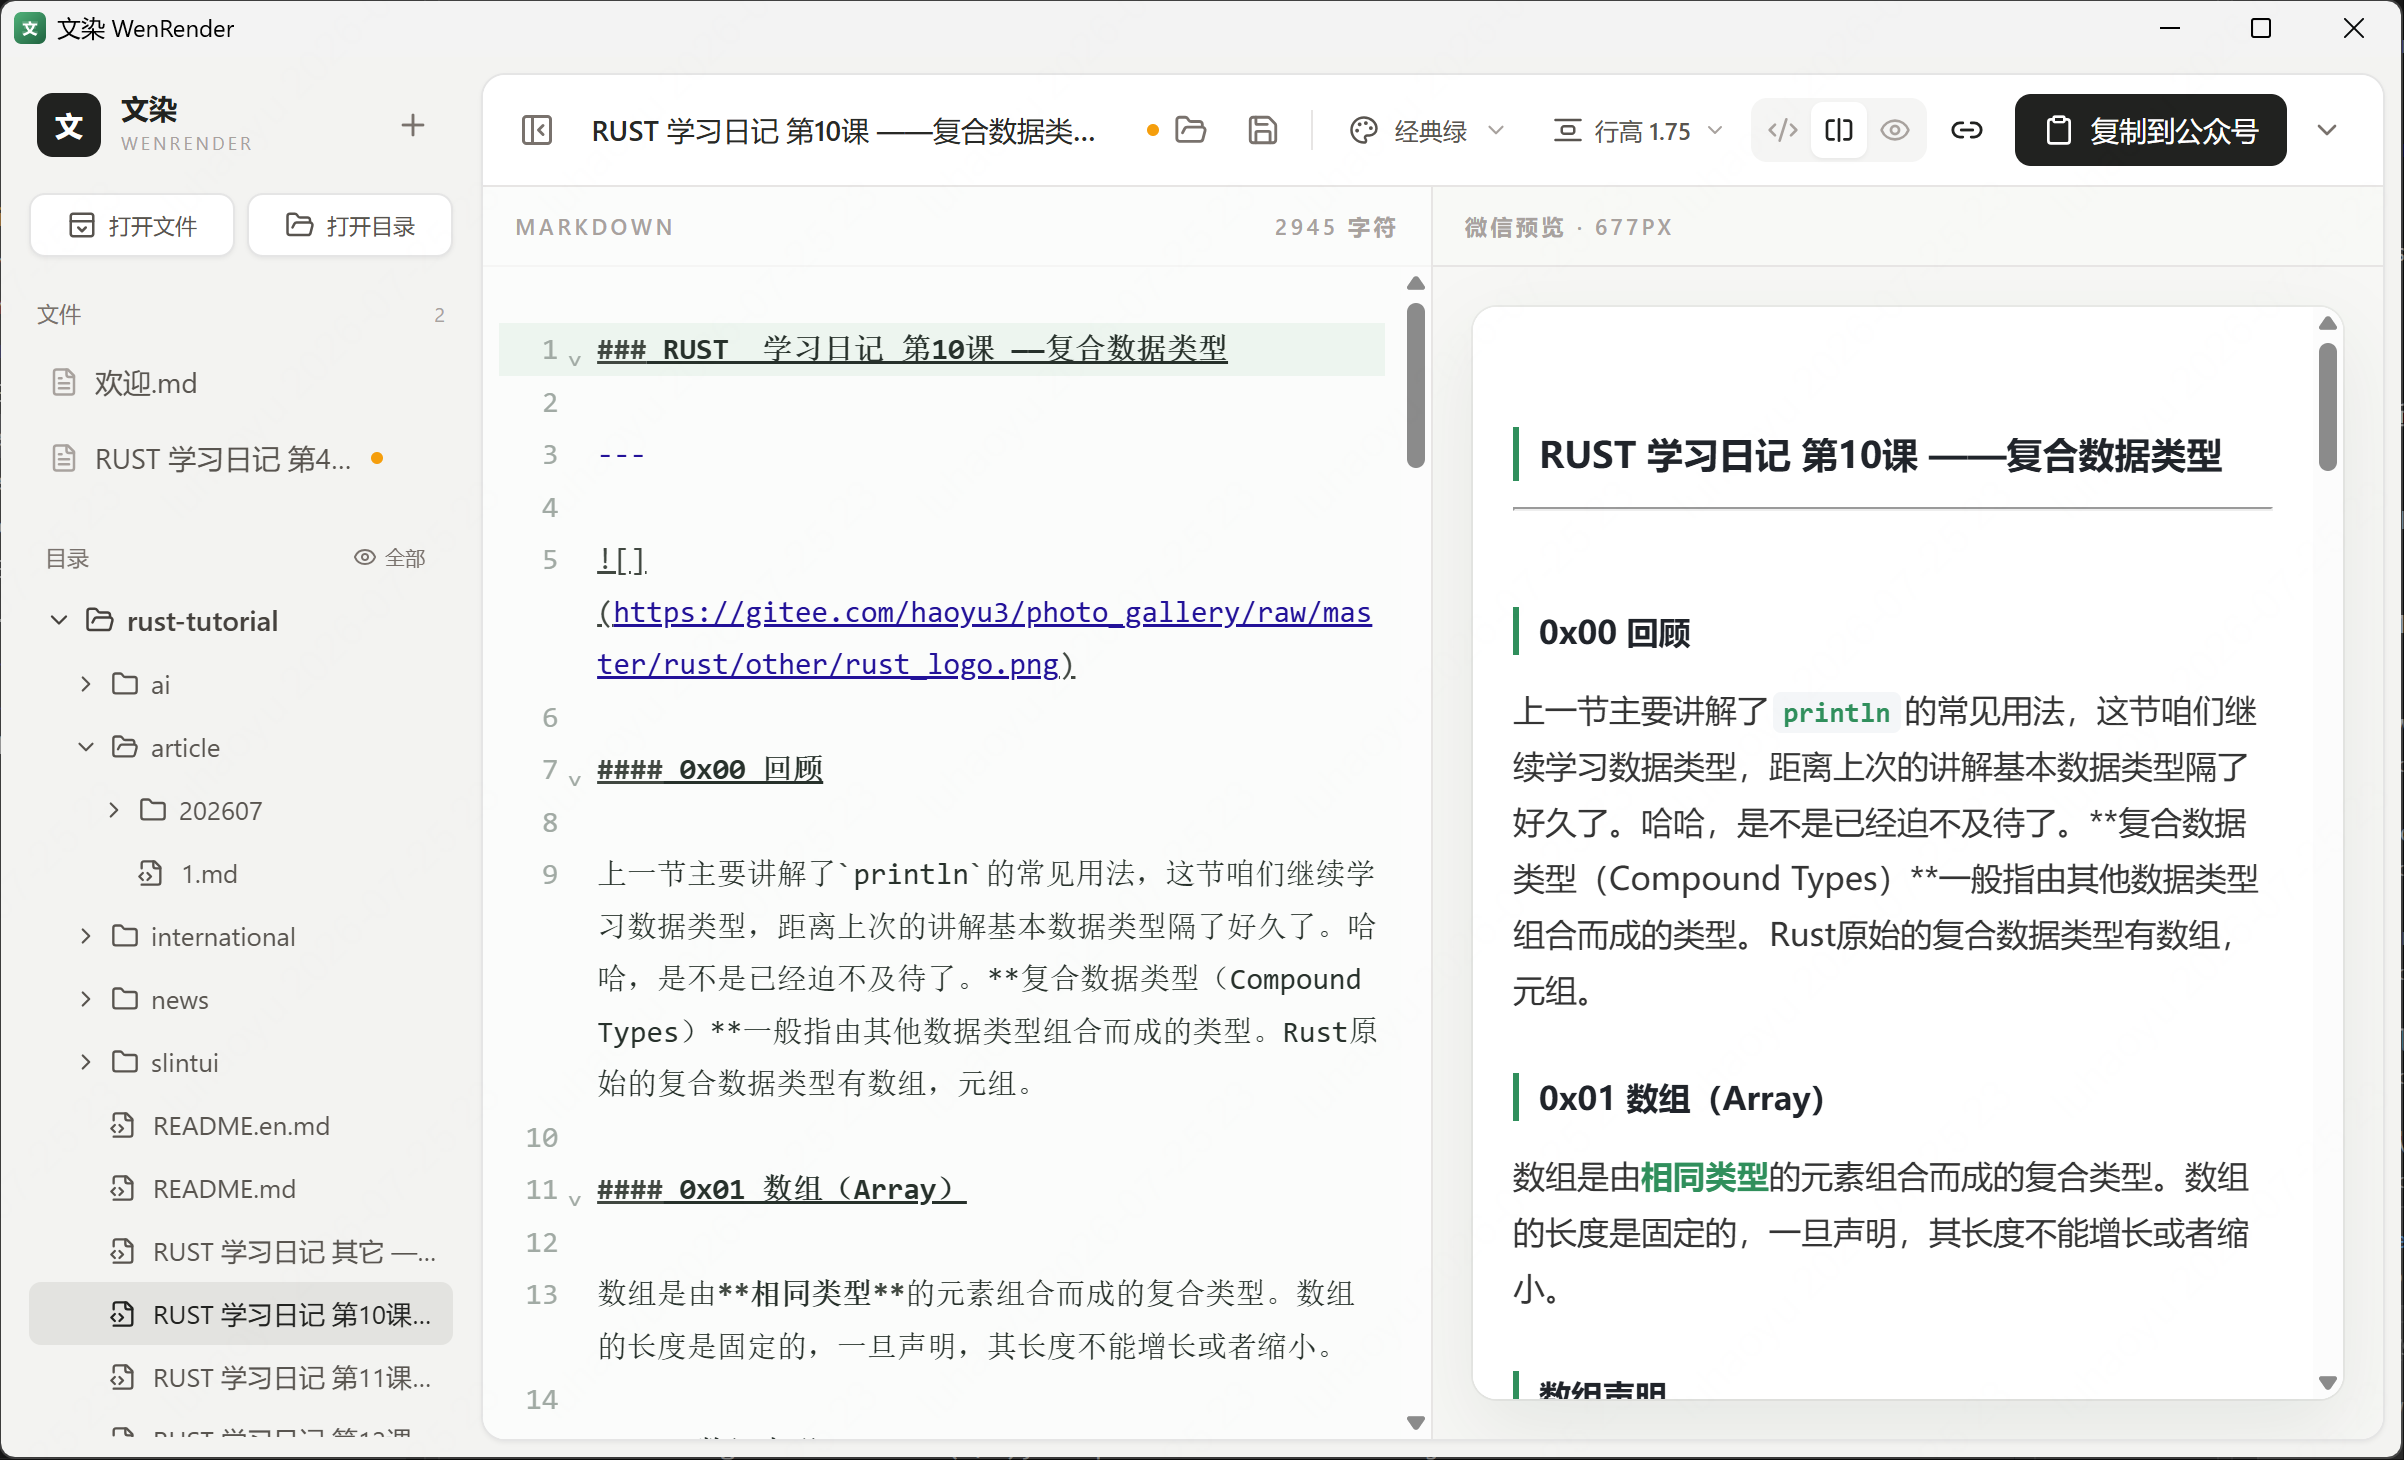
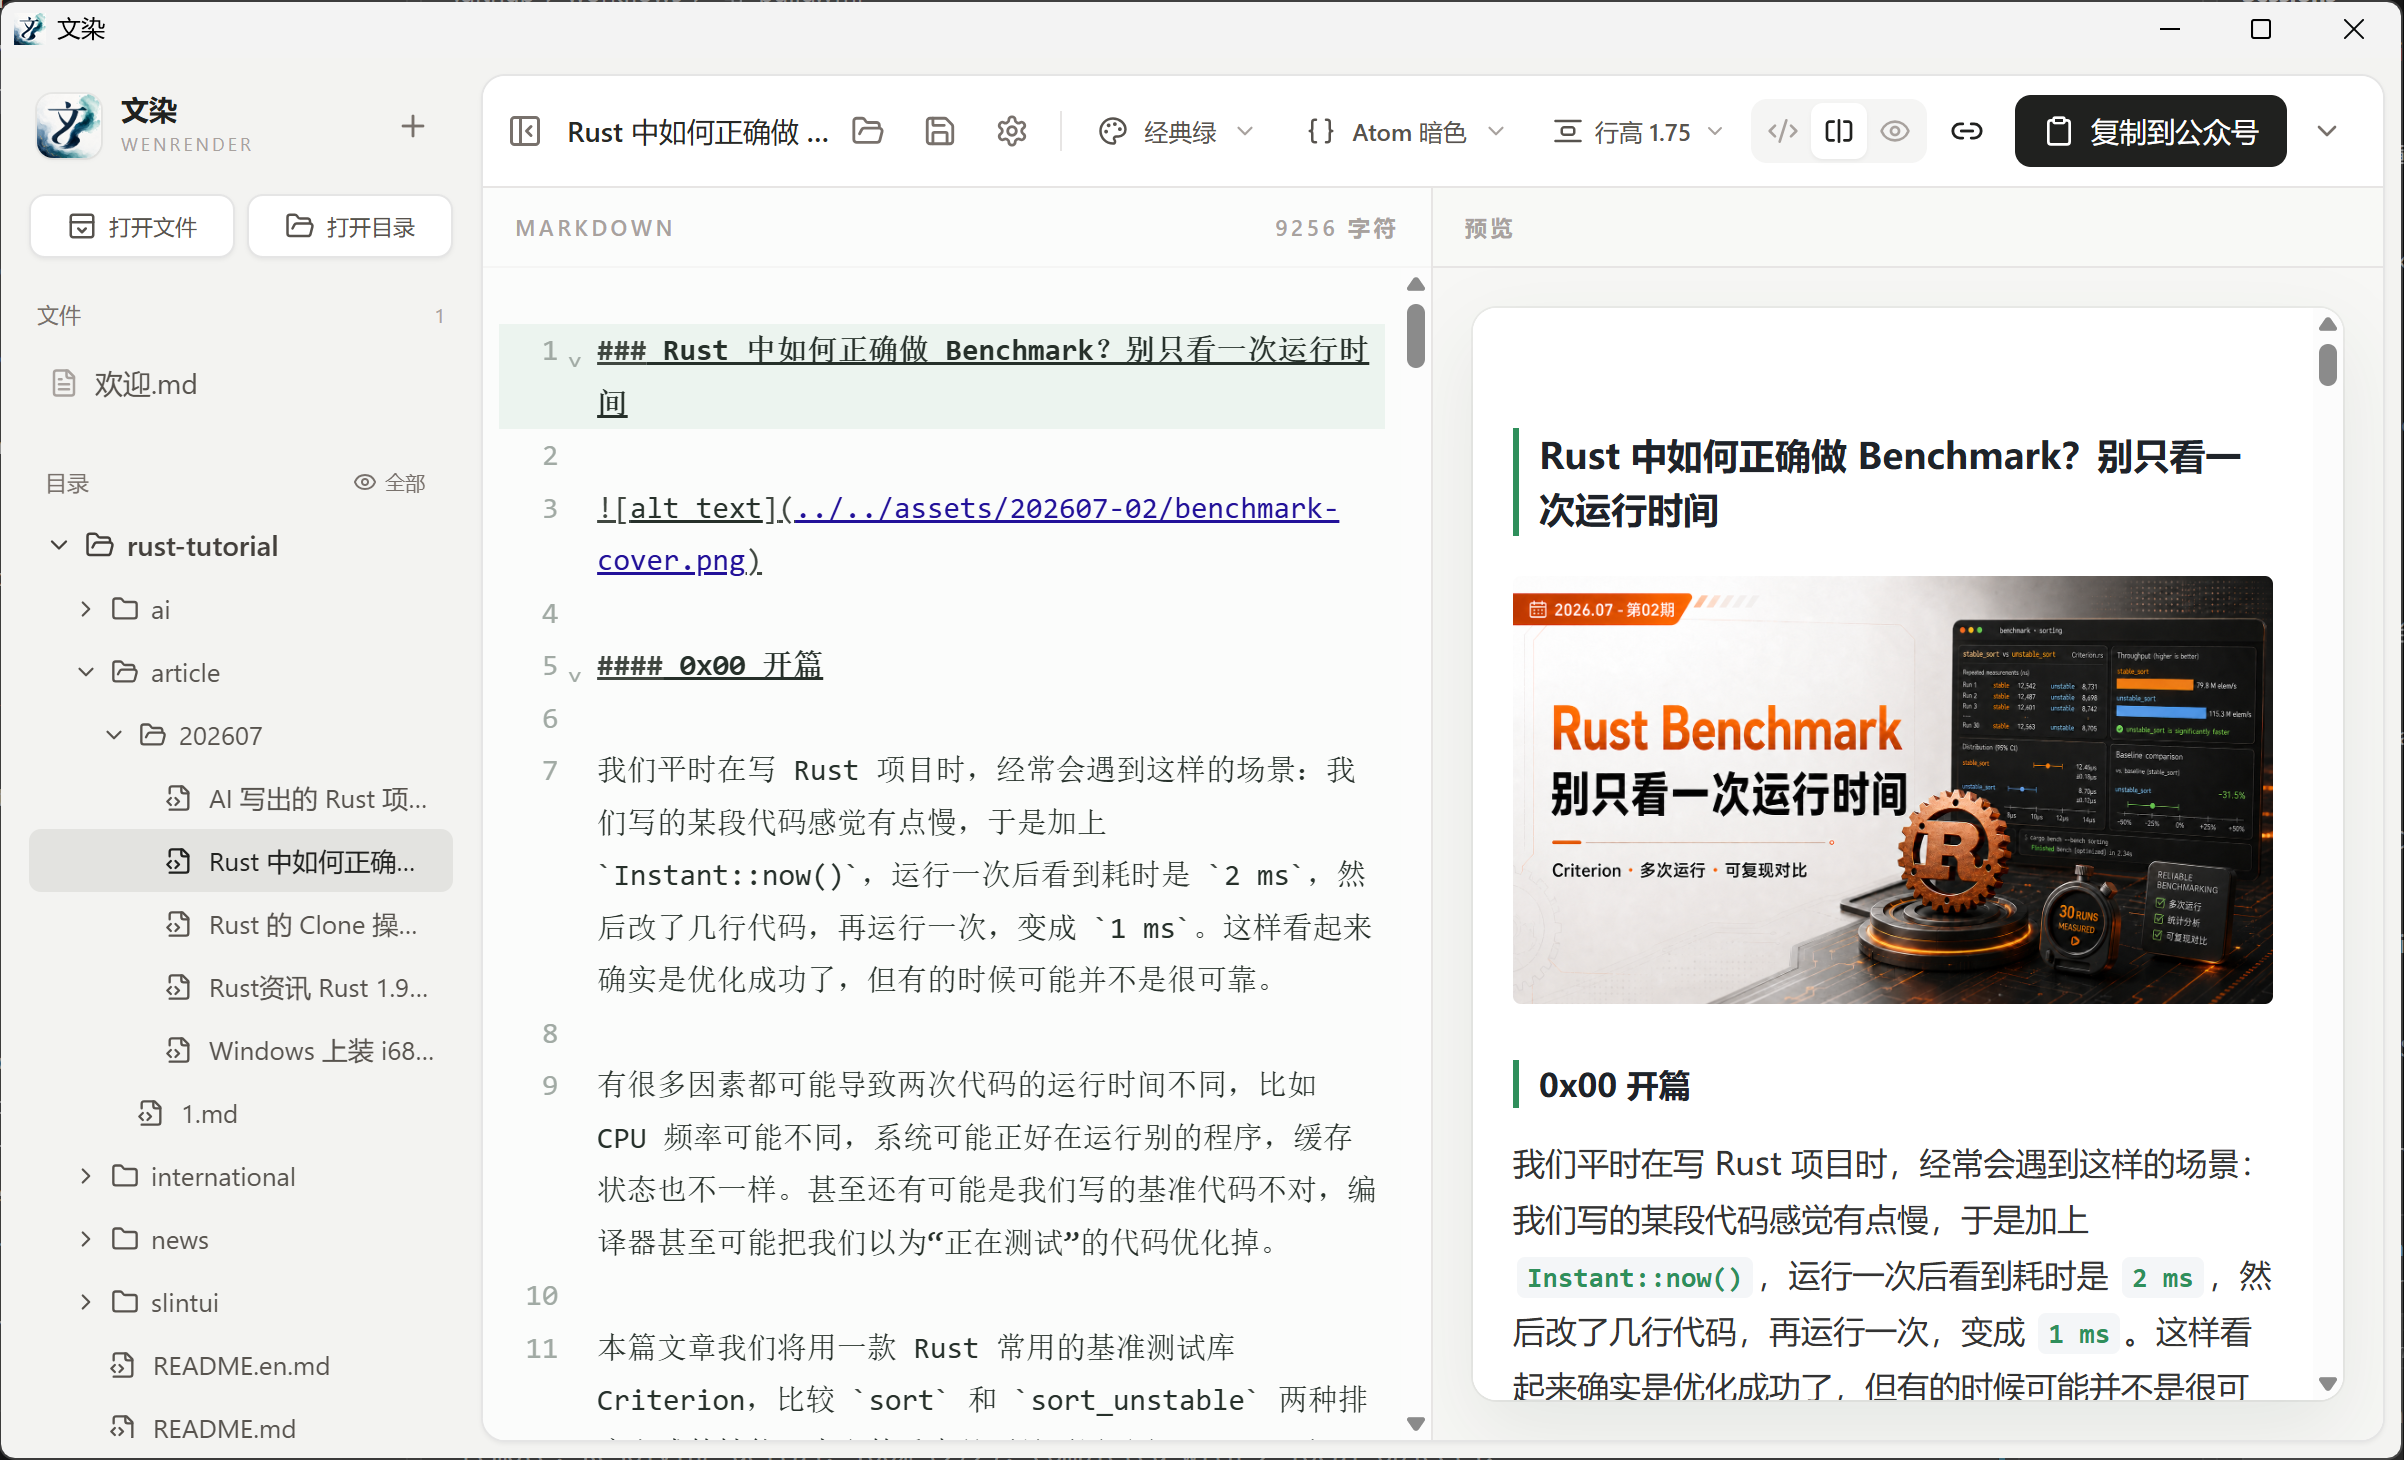
docs: 更新 README 文档并移除废弃的 SVG 图标资源
- 将 README 标题改为带 Logo 的中心对齐展示格式，更符合开源项目规范
- 添加 GitHub 版本徽章、许可证徽章及平台支持状态标识
- 删除项目中未使用的 `app-icon.svg` 文件，清理遗留资源
- 更新演示截图 `demo/image.png` 以反映最新界面效果

diff --git a/README.md b/README.md
@@ -1,8 +1,20 @@
-# 文染
+<div align="center">
+  <img src="./app_logo.png" width="88" height="88" alt="文染 Logo">
+  <h1>文染 WenRender</h1>
+  <p>一款面向微信公众号写作与排版场景的本地 Markdown 编辑器。</p>
+</div>
 
-文染是一款面向微信公众号写作场景的桌面端 Markdown 编辑器。它提供 Markdown 编辑、实时预览、内置主题、代码高亮和公众号格式复制等功能，帮助作者在本地完成文章编写与排版。
-
-软件基于 Tauri 2 和 React 构建，可在 Windows、macOS 与 Linux 桌面系统上运行。
+<div align="center">
+  <a href="https://github.com/1595901624/WenRender/releases">
+    <img src="https://img.shields.io/github/v/release/1595901624/WenRender?display_name=tag&label=version&color=1677ff" alt="最新版本">
+  </a>
+  <a href="./LICENSE">
+    <img src="https://img.shields.io/badge/license-AGPL--3.0-2f8f5b" alt="开源协议">
+  </a>
+  <img src="https://img.shields.io/badge/Windows-Supported-1677ff" alt="Windows Supported">
+  <img src="https://img.shields.io/badge/macOS-Coming%20Soon-f59e0b" alt="macOS Coming Soon">
+  <img src="https://img.shields.io/badge/Linux-Coming%20Soon-f59e0b" alt="Linux Coming Soon">
+</div>
 
 ## 软件界面
 
